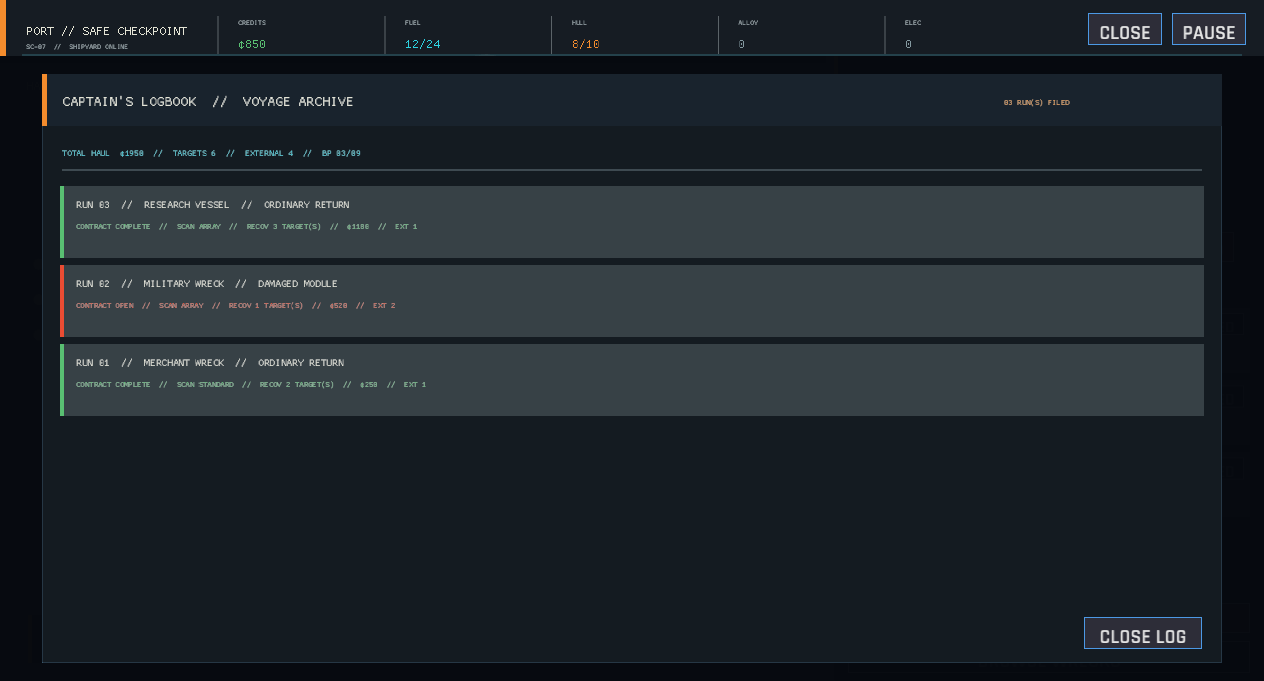
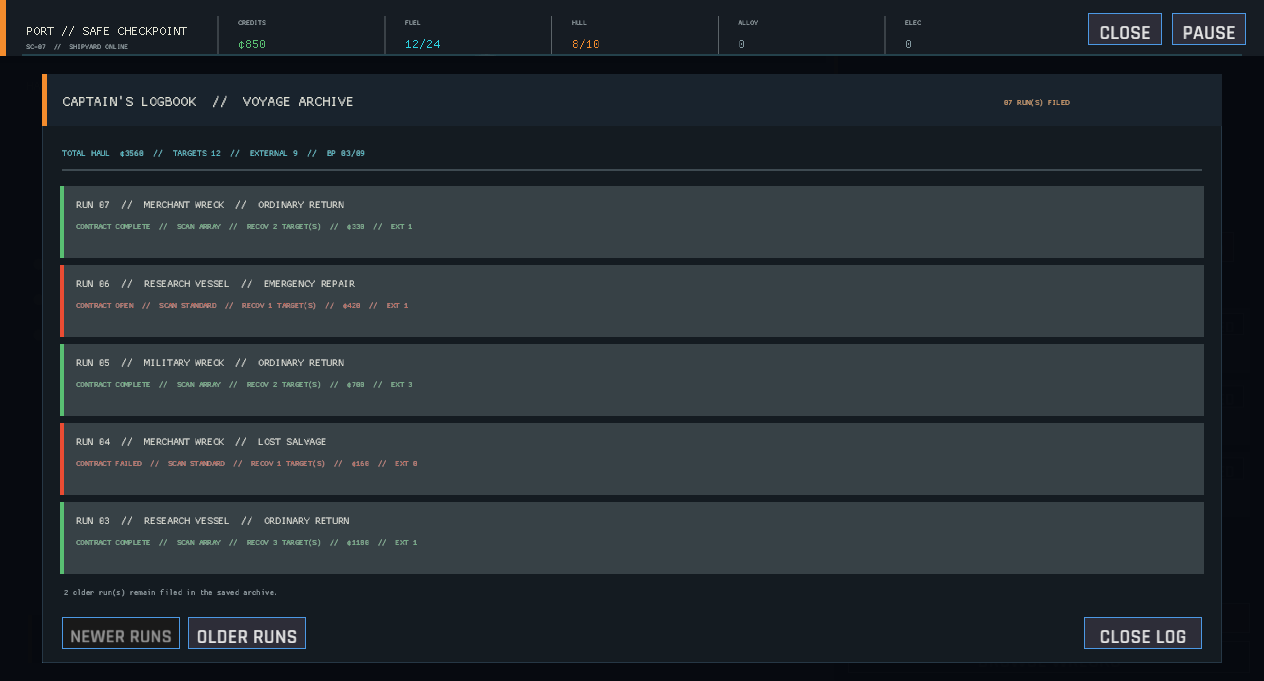
The logbook turns another page without leaving the bridge (archive pagination)
The voyage archive now exposes fixed-size older and newer pages through visible touch controls, preserving access to long-running captains' full history. The capture shows the first page with an active older-history route, and focused pagination coverage keeps page boundaries deterministic.

diff --git a/src/ui/voyage_archive.rs b/src/ui/voyage_archive.rs
@@ -7,7 +7,7 @@ use crate::ui::port_panel::HEADER_HEIGHT;
 #[cfg(test)]
 mod tests;
 
-const MAX_ARCHIVE_ROWS: usize = 5;
+pub const ARCHIVE_PAGE_SIZE: usize = 5;
 
 pub(super) fn archive_button_label(run_count: usize, open: bool) -> String {
     if open {
@@ -92,13 +92,16 @@ pub fn draw_voyage_archive(ctx: &UiContext<'_>, actions: &mut Vec<UiAction>) {
         );
     } else {
         let row_top = frame.y + 112.0;
-        let row_height = ((frame.h - 174.0) / MAX_ARCHIVE_ROWS as f32).clamp(54.0, 72.0);
+        let row_height = ((frame.h - 174.0) / ARCHIVE_PAGE_SIZE as f32).clamp(54.0, 72.0);
+        let (page_offset, page_end) =
+            archive_page(ctx.session.voyage_log.len(), ctx.voyage_archive_offset);
         for (index, record) in ctx
             .session
             .voyage_log
             .iter()
             .rev()
-            .take(MAX_ARCHIVE_ROWS)
+            .skip(page_offset)
+            .take(page_end - page_offset)
             .enumerate()
         {
             let row = Rect::new(
@@ -107,19 +110,42 @@ pub fn draw_voyage_archive(ctx: &UiContext<'_>, actions: &mut Vec<UiAction>) {
                 frame.w - 36.0,
                 row_height,
             );
-            draw_archive_row(ctx, row, record, ctx.session.voyage_log.len() - index);
+            draw_archive_row(
+                ctx,
+                row,
+                record,
+                ctx.session.voyage_log.len() - page_offset - index,
+            );
         }
-        if ctx.session.voyage_log.len() > MAX_ARCHIVE_ROWS {
+        if page_end < ctx.session.voyage_log.len() {
             draw_text(
                 &format!(
                     "{} older run(s) remain filed in the saved archive.",
-                    ctx.session.voyage_log.len() - MAX_ARCHIVE_ROWS
+                    ctx.session.voyage_log.len() - page_end
                 ),
                 frame.x + 22.0,
                 frame.bottom() - 68.0,
                 10.0,
                 visual_theme::text_dim(),
             );
+        }
+        if button(
+            ctx,
+            Rect::new(frame.x + 20.0, frame.bottom() - 46.0, 118.0, 32.0),
+            "NEWER RUNS",
+            page_offset > 0,
+            ButtonTone::Secondary,
+        ) {
+            actions.push(UiAction::ArchiveNewer);
+        }
+        if button(
+            ctx,
+            Rect::new(frame.x + 146.0, frame.bottom() - 46.0, 118.0, 32.0),
+            "OLDER RUNS",
+            page_end < ctx.session.voyage_log.len(),
+            ButtonTone::Secondary,
+        ) {
+            actions.push(UiAction::ArchiveOlder);
         }
     }
 
@@ -132,6 +158,11 @@ pub fn draw_voyage_archive(ctx: &UiContext<'_>, actions: &mut Vec<UiAction>) {
     ) {
         actions.push(UiAction::ToggleVoyageArchive);
     }
+}
+
+fn archive_page(total: usize, requested_offset: usize) -> (usize, usize) {
+    let offset = requested_offset.min(total.saturating_sub(1));
+    (offset, (offset + ARCHIVE_PAGE_SIZE).min(total))
 }
 
 fn draw_archive_row(ctx: &UiContext<'_>, row: Rect, record: &VoyageRecord, run_number: usize) {

diff --git a/src/game.rs b/src/game.rs
@@ -44,6 +44,7 @@ pub struct Game {
     pub port_selected_module: Option<String>,
     pub port_hold_expanded: bool,
     pub voyage_archive_open: bool,
+    pub voyage_archive_offset: usize,
     debug: DebugOverlay,
 }
 
@@ -87,6 +88,7 @@ impl Game {
             port_selected_module: Some("engine_core".to_owned()),
             port_hold_expanded: false,
             voyage_archive_open: false,
+            voyage_archive_offset: 0,
             debug: DebugOverlay::new(),
         }
     }
@@ -330,6 +332,7 @@ impl Game {
             port_selected_module: self.port_selected_module.as_deref(),
             port_hold_expanded: self.port_hold_expanded,
             voyage_archive_open: self.voyage_archive_open,
+            voyage_archive_offset: self.voyage_archive_offset,
         };
         let actions = ui::draw_game_ui(context);
         end_virtual_ui_frame();
@@ -352,6 +355,7 @@ impl Game {
                 self.port_selected_module = Some("engine_core".to_owned());
                 self.port_hold_expanded = false;
                 self.voyage_archive_open = false;
+                self.voyage_archive_offset = 0;
                 self.settings_open = false;
                 self.transition(StateTransition::ToPort);
                 self.note("Fresh ship, fresh debt. Shipyard online.");
@@ -526,7 +530,24 @@ impl Game {
             }
             UiAction::ToggleVoyageArchive => {
                 if self.state == GameState::Port {
+                    if !self.voyage_archive_open {
+                        self.voyage_archive_offset = 0;
+                    }
                     self.voyage_archive_open = !self.voyage_archive_open;
+                }
+            }
+            UiAction::ArchiveOlder => {
+                if self.voyage_archive_open {
+                    self.voyage_archive_offset = (self.voyage_archive_offset
+                        + ui::voyage_archive::ARCHIVE_PAGE_SIZE)
+                        .min(self.session.voyage_log.len().saturating_sub(1));
+                }
+            }
+            UiAction::ArchiveNewer => {
+                if self.voyage_archive_open {
+                    self.voyage_archive_offset = self
+                        .voyage_archive_offset
+                        .saturating_sub(ui::voyage_archive::ARCHIVE_PAGE_SIZE);
                 }
             }
             UiAction::RemoveModule(module_id) => {
@@ -615,6 +636,7 @@ impl Game {
                         .map(|item| item.id.clone());
                     self.port_hold_expanded = false;
                     self.voyage_archive_open = false;
+                    self.voyage_archive_offset = 0;
                     self.refresh_save_state();
                     self.note(format!(
                         "Safe checkpoint loaded. {}",
@@ -658,6 +680,7 @@ impl Game {
         self.dragged_item = None;
         if self.state != GameState::Port {
             self.voyage_archive_open = false;
+            self.voyage_archive_offset = 0;
         }
         match self.state {
             GameState::Travel => {

diff --git a/src/game/capture.rs b/src/game/capture.rs
@@ -40,6 +40,7 @@ impl Game {
         self.port_selected_module = Some("engine_core".to_owned());
         self.port_hold_expanded = false;
         self.voyage_archive_open = false;
+        self.voyage_archive_offset = 0;
         self.settings_open = scene == "settings";
         self.exit_requested = false;
         self.state = match scene {
@@ -83,6 +84,54 @@ impl Game {
                         contract_failed: false,
                         scan_profile: WorkspaceScanProfile::Array,
                         condition_after: 68,
+                    },
+                    VoyageRecord {
+                        site_id: "merchant_wreck".to_owned(),
+                        recovered_count: 1,
+                        recovered_value: 160,
+                        external_load: 0,
+                        risk_outcome: RiskOutcome::LostSalvage,
+                        danger_score: 15,
+                        contract_completed: false,
+                        contract_failed: true,
+                        scan_profile: WorkspaceScanProfile::Standard,
+                        condition_after: 60,
+                    },
+                    VoyageRecord {
+                        site_id: "military_wreck".to_owned(),
+                        recovered_count: 2,
+                        recovered_value: 700,
+                        external_load: 3,
+                        risk_outcome: RiskOutcome::OrdinaryReturn,
+                        danger_score: 45,
+                        contract_completed: true,
+                        contract_failed: false,
+                        scan_profile: WorkspaceScanProfile::Array,
+                        condition_after: 42,
+                    },
+                    VoyageRecord {
+                        site_id: "research_vessel".to_owned(),
+                        recovered_count: 1,
+                        recovered_value: 420,
+                        external_load: 1,
+                        risk_outcome: RiskOutcome::EmergencyRepair,
+                        danger_score: 70,
+                        contract_completed: false,
+                        contract_failed: false,
+                        scan_profile: WorkspaceScanProfile::Standard,
+                        condition_after: 51,
+                    },
+                    VoyageRecord {
+                        site_id: "merchant_wreck".to_owned(),
+                        recovered_count: 2,
+                        recovered_value: 330,
+                        external_load: 1,
+                        risk_outcome: RiskOutcome::OrdinaryReturn,
+                        danger_score: 15,
+                        contract_completed: true,
+                        contract_failed: false,
+                        scan_profile: WorkspaceScanProfile::Array,
+                        condition_after: 53,
                     },
                 ];
                 self.voyage_archive_open = true;

diff --git a/src/ui/voyage_archive/tests.rs b/src/ui/voyage_archive/tests.rs
@@ -28,6 +28,14 @@ fn archive_button_advertises_filed_runs_before_opening() {
 }
 
 #[test]
+fn archive_page_exposes_older_runs_in_fixed_pages() {
+    assert_eq!(archive_page(12, 0), (0, 5));
+    assert_eq!(archive_page(12, 5), (5, 10));
+    assert_eq!(archive_page(12, 10), (10, 12));
+    assert_eq!(archive_page(3, 99), (2, 3));
+}
+
+#[test]
 fn archive_summary_totals_the_persistent_haul() {
     let records = vec![
         record(RiskOutcome::OrdinaryReturn, 2, 250),

diff --git a/src/ui.rs b/src/ui.rs
@@ -84,6 +84,8 @@ pub enum UiAction {
     Save,
     Load,
     ToggleVoyageArchive,
+    ArchiveOlder,
+    ArchiveNewer,
     TogglePause,
     ToggleStats,
 }
@@ -124,6 +126,7 @@ pub struct UiContext<'a> {
     pub port_selected_module: Option<&'a str>,
     pub port_hold_expanded: bool,
     pub voyage_archive_open: bool,
+    pub voyage_archive_offset: usize,
 }
 
 pub fn draw_game_ui(ctx: UiContext<'_>) -> Vec<UiAction> {
